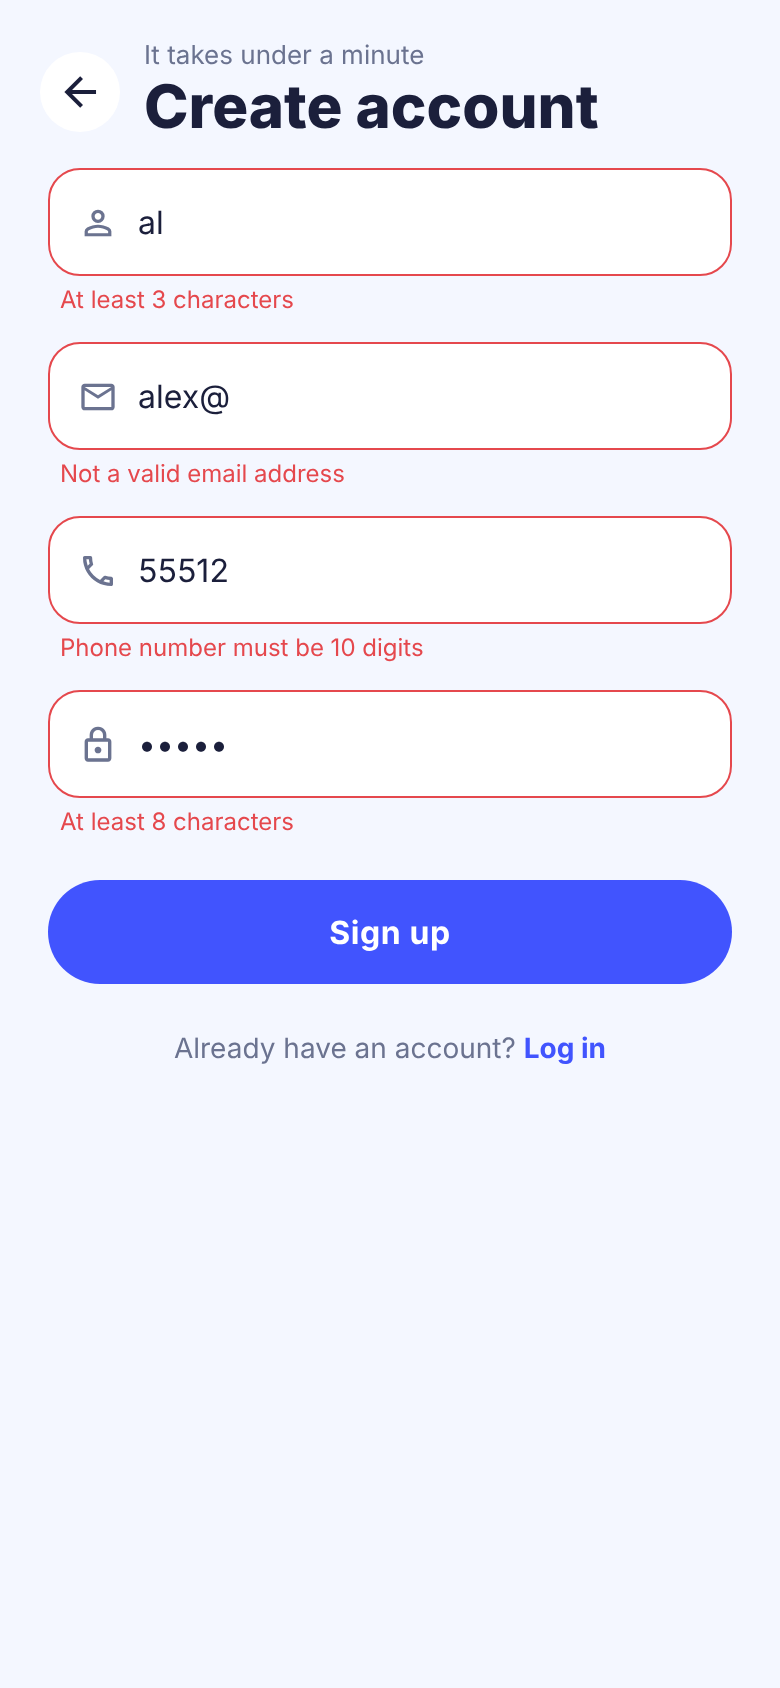
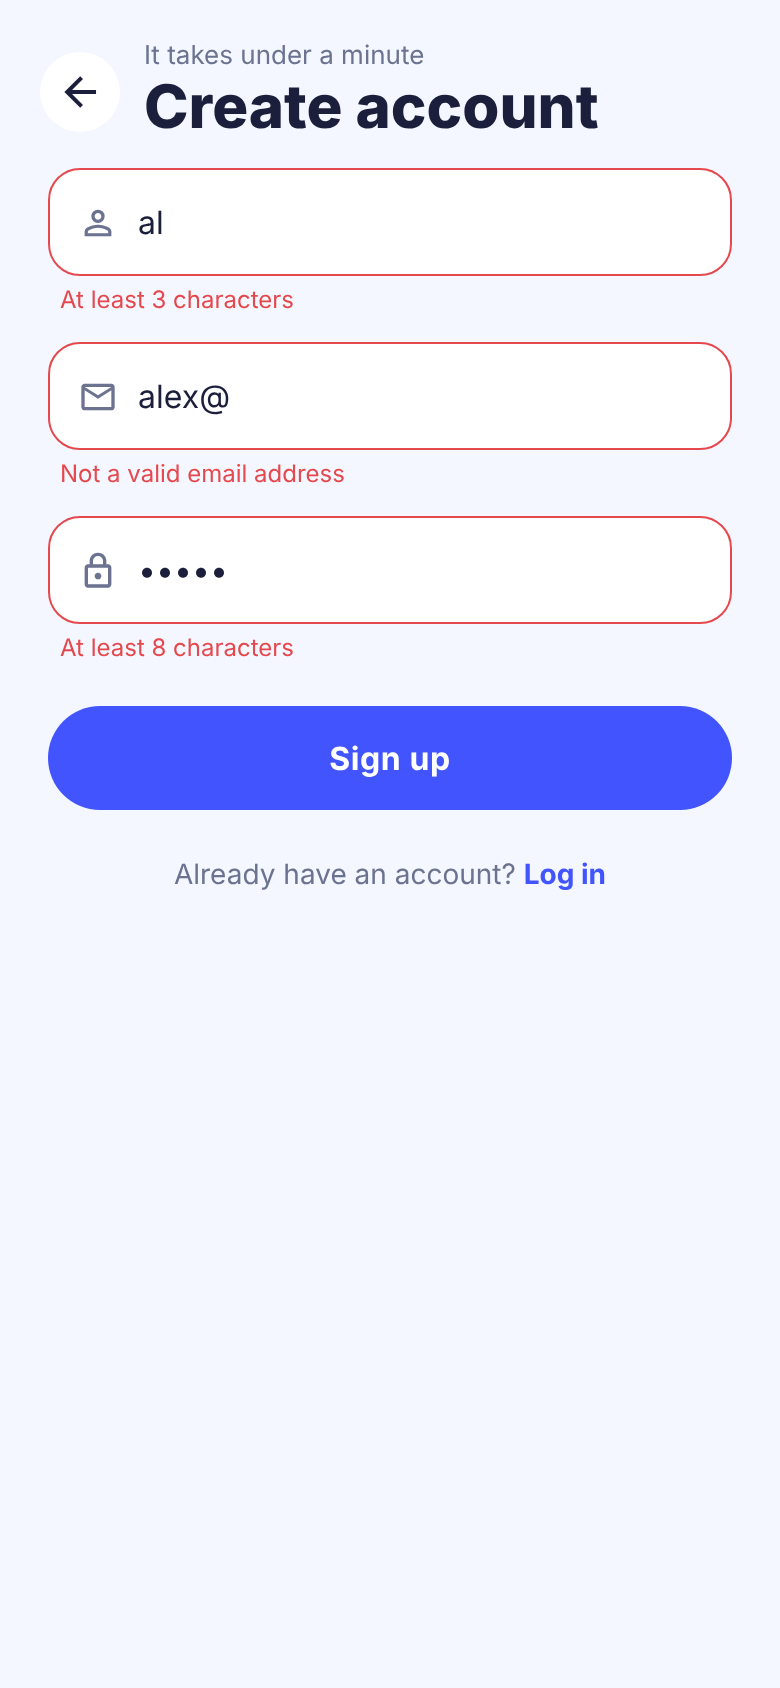
Remove the unused phone-number field and switch the package to com.lilsardarx.wha2do
- Sign-up no longer asks for a phone number; the profile stores only username and email
- Package/namespace/applicationId is now com.lilsardarx.wha2do (Kotlin sources moved)
- Refresh README, store and Play screenshots; update data-safety table and privacy policy
- The demo video is left as recorded (it still shows the old phone field; README notes this)

Claude-Session: https://claude.ai/code/session_01D187WXmWB7vB1vG2C96GPJ

Changed region(s): [[0.0615, 0.3081, 0.9538, 0.5853], [0.2154, 0.6161, 0.6462, 0.6469], [0.6769, 0.6161, 0.7692, 0.6469]]

diff --git a/__tests__/api-test.js b/__tests__/api-test.js
@@ -25,7 +25,6 @@ describe('auth', () => {
       username: 'pat',
       email: 'pat@example.com',
       password: 'correct-horse',
-      phone: '5550000000',
     });
     expect(seen).toHaveBeenCalledTimes(1);
     stop();
@@ -37,7 +36,6 @@ describe('auth', () => {
       username: 'sam',
       email: 'sam@example.com',
       password: 'hunter2hunter2',
-      phone: '5551234567',
     });
     expect(user.displayName).toBe('sam');
 
@@ -45,7 +43,6 @@ describe('auth', () => {
     expect(profile).toEqual({
       username: 'sam',
       email: 'sam@example.com',
-      phone: '5551234567',
     });
     expect(JSON.stringify(profile)).not.toMatch(/hunter2/);
   });
@@ -57,7 +54,6 @@ describe('auth', () => {
         username: 'sam',
         email: 'sam@example.com',
         password: 'x',
-        phone: '1',
       }),
     ).rejects.toMatchObject({ code: 'auth/email-already-in-use' });
     await expect(signIn('sam@example.com', 'nope')).rejects.toMatchObject({
@@ -115,7 +111,6 @@ describe('account deletion', () => {
       username: 'gone',
       email: 'gone@example.com',
       password: 'bye-bye-bye',
-      phone: '5551111111',
     });
     await addList(user.uid, 'Temp');
     await deleteAccount(user);

diff --git a/src/screens/SignUp.js b/src/screens/SignUp.js
@@ -19,10 +19,6 @@ export const signUpSchema = yup.object({
     .string()
     .required('Email is required')
     .email('Not a valid email address'),
-  phone: yup
-    .string()
-    .required('Phone number is required')
-    .matches(/^\d{10}$/, 'Phone number must be 10 digits'),
   password: yup
     .string()
     .required('Password is required')
@@ -53,7 +49,7 @@ export default function SignUp({ navigation }) {
         onBack={navigation.goBack}
       />
       <Formik
-        initialValues={{ username: '', email: '', phone: '', password: '' }}
+        initialValues={{ username: '', email: '', password: '' }}
         validationSchema={signUpSchema}
         onSubmit={onSubmit}
       >
@@ -74,14 +70,6 @@ export default function SignUp({ navigation }) {
               icon="email-outline"
               placeholder="Email address"
               keyboardType="email-address"
-            />
-            <Field
-              f={f}
-              name="phone"
-              icon="phone-outline"
-              placeholder="Phone (10 digits)"
-              keyboardType="phone-pad"
-              maxLength={10}
             />
             <Field
               f={f}

diff --git a/src/api.js b/src/api.js
@@ -53,10 +53,10 @@ export const signIn = (email, password) =>
 
 // Creates the account, sets the display name and stores a small profile.
 // Passwords are handled by Firebase Auth only and are never written to the DB.
-export const signUp = async ({ username, email, password, phone }) => {
+export const signUp = async ({ username, email, password }) => {
   const { user } = await createUserWithEmailAndPassword(auth, email, password);
   await updateProfile(user, { displayName: username });
-  await set(child(userRef(user.uid), 'profile'), { username, email, phone });
+  await set(child(userRef(user.uid), 'profile'), { username, email });
   profileListeners.forEach(fn => fn());
   return user;
 };

diff --git a/__tests__/helpers-test.js b/__tests__/helpers-test.js
@@ -20,7 +20,6 @@ describe('signUpSchema', () => {
   const valid = {
     username: 'alex',
     email: 'alex@example.com',
-    phone: '5551234567',
     password: 'password123',
   };
 
@@ -31,7 +30,6 @@ describe('signUpSchema', () => {
   it.each([
     ['username', 'al'],
     ['email', 'alex@'],
-    ['phone', '55512'],
     ['password', 'short'],
   ])('rejects a bad %s', async (field, value) => {
     await expect(

diff --git a/android/app/src/main/java/com/lilsardarx/wha2do/MainActivity.kt b/android/app/src/main/java/com/lilsardarx/wha2do/MainActivity.kt
@@ -1,4 +1,4 @@
-package com.haramrit09k.wha2do
+package com.lilsardarx.wha2do
 
 import com.facebook.react.ReactActivity
 import com.facebook.react.ReactActivityDelegate

diff --git a/android/app/src/main/java/com/lilsardarx/wha2do/MainApplication.kt b/android/app/src/main/java/com/lilsardarx/wha2do/MainApplication.kt
@@ -1,4 +1,4 @@
-package com.haramrit09k.wha2do
+package com.lilsardarx.wha2do
 
 import android.app.Application
 import com.facebook.react.PackageList

diff --git a/README.md b/README.md
@@ -16,7 +16,7 @@ Create lists, add tasks with a start time, tick them off, and watch your progres
 
 A one-minute walkthrough with a moving camera (3D tilt, zooms and pans): sign up, create a list, add tasks, tick them off. Click it for the full 1080p video **with sound**
 ([`docs/demo/wha2do-demo.mp4`](docs/demo/wha2do-demo.mp4)); the GIF is silent. The soundtrack is an original jingle and sound effects synthesised in code
-([`preview/make-audio.py`](preview/make-audio.py)), so there is nothing to license. It is rendered from the browser preview, see below.
+([`preview/make-audio.py`](preview/make-audio.py)), so there is nothing to license. It is rendered from the browser preview, see below. (The video was recorded before the unused phone-number field was removed from sign-up, so it still shows that field; `npm run preview:video` re-records it.)
 
 ## Features
 
@@ -98,7 +98,7 @@ writable by that user only.
 Data layout:
 
 ```text
-users/{uid}/profile              { username, email, phone }
+users/{uid}/profile              { username, email }
 users/{uid}/lists/{listId}       { name, createdAt }
 users/{uid}/tasks/{listId}/{id}  { name, time, done, createdAt }
 ```
@@ -150,7 +150,7 @@ scripts/                icon generator
 ## What changed in the revival
 
 - **Fixed a startup crash.** `SignUp.js` assigned undeclared globals at module level, which throws in strict mode, and `src/config.js` imported a package that was never installed.
-- **Stopped storing passwords.** Sign-up used to save an MD5 hash of the password in the database. Firebase Auth already handles credentials, so the profile now holds only the username, email and phone number.
+- **Stopped storing passwords.** Sign-up used to save an MD5 hash of the password in the database. Firebase Auth already handles credentials, so the profile now holds only the username and email.
 - **Real persistence.** Lists and tasks were kept in component state with hard-coded samples and then lost. They are now stored per user in Firebase and streamed live.
 - **Auth-driven navigation.** The navigator shows the onboarding or app screens based on the sign-in state, instead of calling `navigate()` after every login and logout.
 - **New design.** A shared theme and component set replaces the nested-`View` layouts, with tap-to-complete tasks, a progress bar, bottom sheets and empty states.
@@ -169,7 +169,6 @@ checklist, including the steps only you can do (your own Firebase project, uploa
 
 - The app has not been run on a physical device or emulator yet. Do a pass on a real phone before publishing, paying attention to the keyboard behaviour in the bottom sheets (the app uses edge-to-edge layout).
 - The Firebase project in `src/firebase.js` may no longer exist or accept requests. Use your own project, and restrict its API key in the Google Cloud console.
-- Sign-up asks for a phone number that nothing uses yet. Consider removing it (less data to protect and declare).
 - The old iOS project was removed in the React Native upgrade; generate a fresh one if you want an iOS build.
 
 ## Team

diff --git a/docs/PUBLISHING.md b/docs/PUBLISHING.md
@@ -38,11 +38,11 @@ is a **brand-new app on a new developer account**, not an update:
   account avoids that but needs a D-U-N-S number. Check the Console for the current rules. Also complete
   Android developer verification if the Console asks for it.
 - The package name is **permanent** once you upload your first build, and it must be unique across Play. The app
-  uses `com.haramrit09k.wha2do`. Package names of deleted apps generally cannot be reused, so `com.wha2do` is
-  most likely unavailable; if you want to try it anyway, change it as described below and let the Console's
+  uses `com.lilsardarx.wha2do`. Package names of deleted apps generally cannot be reused, so the old `com.wha2do`
+  is most likely unavailable; if you want to try it anyway, change it as described below and let the Console's
   first upload tell you (it rejects a taken name), before you invest in anything else.
 - To change it, edit `namespace` and `applicationId` in `android/app/build.gradle`, move
-  `android/app/src/main/java/com/haramrit09k/wha2do/` to the matching folder, and update the `package` line in
+  `android/app/src/main/java/com/lilsardarx/wha2do/` to the matching folder, and update the `package` line in
   both Kotlin files.
 - A new signing key is fine here (section 4), because nothing already installed needs to be updated. People who
   still have the 2020 app installed will not receive this one as an update.
@@ -117,7 +117,6 @@ To test on a device first: `npm run build:apk` gives a signed APK you can sidelo
 | --- | --- | --- | --- | --- |
 | Email address | Yes | No | Account management | No |
 | Name (the username the person types) | Yes | No | Account management, app functionality | No |
-| Phone number | Yes | No | Account profile (stored, not used for anything else yet) | No |
 | User IDs (Firebase uid) | Yes | No | Account management | No |
 | Other user-generated content (lists and tasks) | Yes | No | App functionality | No |
 
@@ -125,7 +124,8 @@ To test on a device first: `npm run build:apk` gives a signed APK you can sidelo
 - Users can **request deletion**: yes, in the app (Account, then Delete account) and by email.
 - No ads, no analytics, no data sold. Firebase (Google) acts as a service provider, which Play does not count as
   "sharing".
-- If you remove the phone-number field from sign-up (recommended, since it is not used), remove that row too.
+- Sign-up no longer asks for a phone number, so none is collected. (Accounts created by earlier test builds may
+  still have one stored; delete those accounts in the Firebase console.)
 
 ## 7. Before you hit "Release"
 

diff --git a/docs/privacy-policy.md b/docs/privacy-policy.md
@@ -12,7 +12,7 @@ choices you have. Replace the bracketed placeholders before publishing.
 When you create an account and use the app, we store:
 
 - **Email address**: to create your account, sign you in and let you reset your password.
-- **Username** (the display name you choose) and **phone number**: saved in your profile.
+- **Username** (the display name you choose): saved in your profile.
 - **Your lists and tasks** (names, optional start times, whether they are done) and when you created them.
 - **An account identifier** generated by our authentication provider.
 
